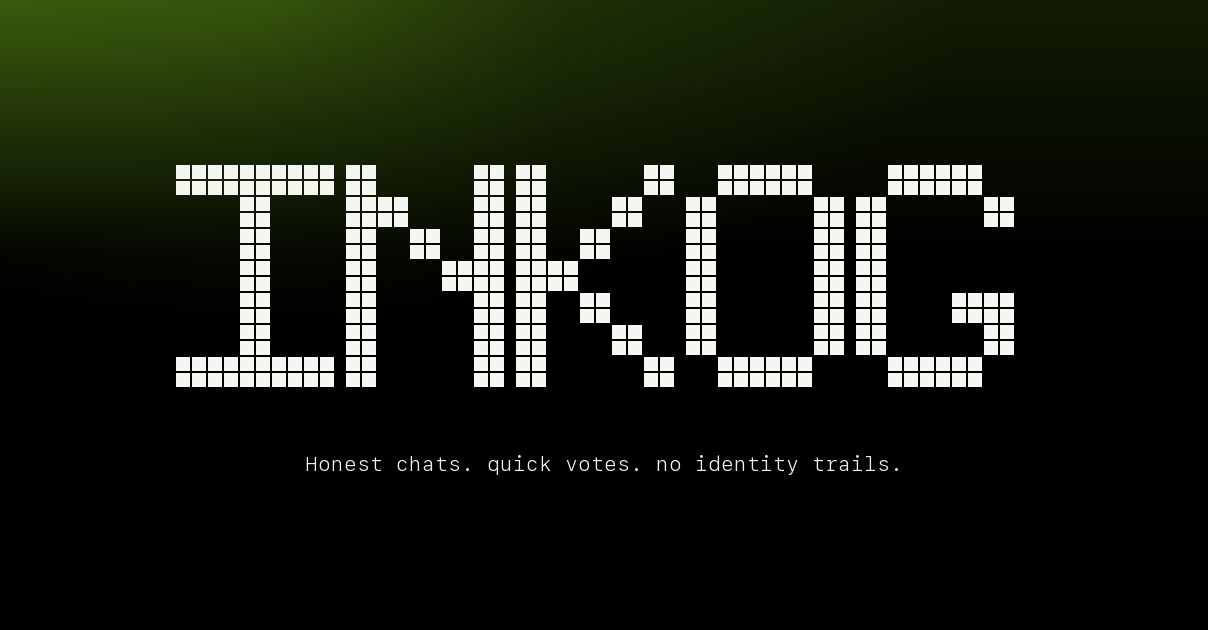
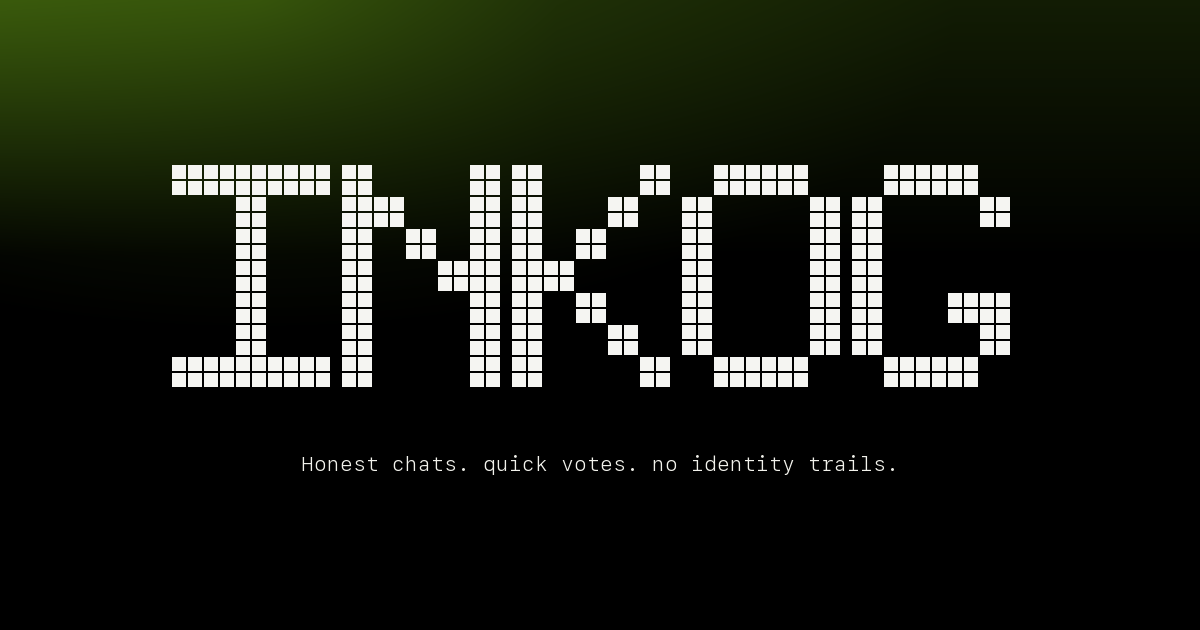
Complete SEO, AEO, GEO, OG image, and analytics updates

diff --git a/app/layout.tsx b/app/layout.tsx
@@ -1,4 +1,5 @@
 import type { Metadata } from "next";
+import Script from "next/script";
 import { DialRoot } from "dialkit";
 import { RouteHandoffProvider } from "@/components/route-handoff-provider";
 import { AgentationProvider } from "./agentation-provider";
@@ -7,15 +8,36 @@ import "dialkit/styles.css";
 import "./globals.css";
 import { SystemSoundProvider } from "@/lib/system-sound-provider";
 import { buildInkogFaviconHref } from "@/lib/inkog-favicon.mjs";
-import { getSiteEntityJsonLd, siteUrl } from "@/lib/site-seo.mjs";
+import {
+  getSiteEntityJsonLd,
+  SITE_DESCRIPTION,
+  SITE_IMAGE_PATH,
+  SITE_TITLE,
+  siteUrl,
+} from "@/lib/site-seo.mjs";
 import { ThemeFavicon } from "./theme-favicon";
 
+const googleAnalyticsId = "G-4BBHERXLJ5";
+
 export const metadata: Metadata = {
-  ...(siteUrl ? { metadataBase: siteUrl } : {}),
-  title: "inkog | Private Anonymous Chat",
-  description: "Create a time-bound room for anonymous group chat, optional passwords, and quick polls. No profiles required.",
+  metadataBase: siteUrl,
+  title: SITE_TITLE,
+  applicationName: "inkog",
+  description: SITE_DESCRIPTION,
+  keywords: ["private anonymous chat", "temporary chat", "anonymous group chat", "quick polls"],
   alternates: {
     canonical: "/",
+  },
+  robots: {
+    index: true,
+    follow: true,
+    googleBot: {
+      index: true,
+      follow: true,
+      "max-image-preview": "large",
+      "max-snippet": -1,
+      "max-video-preview": -1,
+    },
   },
   icons: {
     icon: [
@@ -26,25 +48,27 @@ export const metadata: Metadata = {
     ],
   },
   openGraph: {
-    title: "inkog | Private Anonymous Chat",
-    description: "Create a time-bound room for anonymous group chat, optional passwords, and quick polls. No profiles required.",
+    title: SITE_TITLE,
+    description: SITE_DESCRIPTION,
     url: "/",
+    siteName: "inkog",
     type: "website",
+    locale: "en_US",
     images: [
       {
-        url: "/og-image.gif",
-        width: 1208,
+        url: SITE_IMAGE_PATH,
+        width: 1200,
         height: 630,
-        alt: "Inkog pixel logo with shimmer animation",
-        type: "image/gif",
+        alt: "inkog pixel wordmark with the tagline Honest chats. quick votes. no identity trails.",
+        type: "image/png",
       },
     ],
   },
   twitter: {
     card: "summary_large_image",
-    title: "inkog | Private Anonymous Chat",
-    description: "Create a time-bound room for anonymous group chat, optional passwords, and quick polls. No profiles required.",
-    images: ["/og-image.png"],
+    title: SITE_TITLE,
+    description: SITE_DESCRIPTION,
+    images: [SITE_IMAGE_PATH],
   },
 };
 
@@ -56,6 +80,18 @@ export default function RootLayout({ children }: { children: React.ReactNode }) 
           type="application/ld+json"
           dangerouslySetInnerHTML={{ __html: JSON.stringify(getSiteEntityJsonLd()) }}
         />
+        <Script
+          src={`https://www.googletagmanager.com/gtag/js?id=${googleAnalyticsId}`}
+          strategy="afterInteractive"
+        />
+        <Script id="google-analytics" strategy="afterInteractive">
+          {`
+            window.dataLayer = window.dataLayer || [];
+            function gtag(){dataLayer.push(arguments);}
+            gtag('js', new Date());
+            gtag('config', '${googleAnalyticsId}');
+          `}
+        </Script>
         <script
           dangerouslySetInnerHTML={{
             __html: `try{var theme=window.localStorage.getItem("inkog-theme");if(theme==="crimson"){theme="green";}if(theme){document.documentElement.setAttribute("data-inkog-theme",theme);}}catch(_){}`,

diff --git a/app/about/page.tsx b/app/about/page.tsx
@@ -1,8 +1,14 @@
 import type { Metadata } from "next";
-import { aboutFaqs, getAboutJsonLd } from "@/lib/site-seo.mjs";
+import {
+  ABOUT_DESCRIPTION,
+  ABOUT_TITLE,
+  aboutFaqs,
+  getAboutJsonLd,
+  SITE_IMAGE_PATH,
+} from "@/lib/site-seo.mjs";
 
-const title = "About inkog";
-const description = "How inkog supports private, anonymous, time-bound group conversations.";
+const title = ABOUT_TITLE;
+const description = ABOUT_DESCRIPTION;
 
 export const metadata: Metadata = {
   title,
@@ -14,14 +20,16 @@ export const metadata: Metadata = {
     title,
     description,
     url: "/about",
+    siteName: "inkog",
     type: "website",
+    locale: "en_US",
     images: [
       {
-        url: "/og-image.gif",
-        width: 1208,
+        url: SITE_IMAGE_PATH,
+        width: 1200,
         height: 630,
-        alt: "Inkog pixel logo with shimmer animation",
-        type: "image/gif",
+        alt: "inkog pixel wordmark with the tagline Honest chats. quick votes. no identity trails.",
+        type: "image/png",
       },
     ],
   },
@@ -29,7 +37,7 @@ export const metadata: Metadata = {
     card: "summary_large_image",
     title,
     description,
-    images: ["/og-image.png"],
+    images: [SITE_IMAGE_PATH],
   },
 };
 

diff --git a/app/robots.ts b/app/robots.ts
@@ -15,6 +15,11 @@ export default function robots(): MetadataRoute.Robots {
         disallow: ["/api/"],
       },
       {
+        userAgent: "ChatGPT-User",
+        allow: "/",
+        disallow: ["/api/"],
+      },
+      {
         userAgent: "GPTBot",
         allow: "/",
         disallow: ["/api/"],
@@ -30,7 +35,17 @@ export default function robots(): MetadataRoute.Robots {
         disallow: ["/api/"],
       },
       {
+        userAgent: "anthropic-ai",
+        allow: "/",
+        disallow: ["/api/"],
+      },
+      {
         userAgent: "Google-Extended",
+        allow: "/",
+        disallow: ["/api/"],
+      },
+      {
+        userAgent: "Bingbot",
         allow: "/",
         disallow: ["/api/"],
       },

diff --git a/app/page.tsx b/app/page.tsx
@@ -1,5 +1,17 @@
 import { DirectionTwoShell } from "@/components/direction-two-shell";
+import { getHomeJsonLd } from "@/lib/site-seo.mjs";
 
 export default function Home() {
-  return <DirectionTwoShell />;
+  return (
+    <>
+      <script
+        type="application/ld+json"
+        dangerouslySetInnerHTML={{ __html: JSON.stringify(getHomeJsonLd()) }}
+      />
+      <DirectionTwoShell />
+      <nav aria-label="Site navigation" className="sr-only">
+        <a href="/about">About inkog</a>
+      </nav>
+    </>
+  );
 }

diff --git a/components/direction-two-shell.tsx b/components/direction-two-shell.tsx
@@ -1374,6 +1374,7 @@ export function DirectionTwoShell() {
       data-route-handoff-phase={routeHandoffState.phase}
       onClick={focusInput}
     >
+      <h1 className="sr-only">Private anonymous chat rooms for temporary conversations</h1>
       <p id="direction-two-keyboard-shortcuts" className="sr-only">
         Enter submits a command or answer. Arrow up and arrow down move through command history. Tab autocompletes commands. Escape cancels the current prompt.
       </p>

diff --git a/lib/room-og.mjs.d.ts b/lib/room-og.mjs.d.ts
@@ -1,4 +1,4 @@
-export const ROOM_OG_WIDTH: 1208;
+export const ROOM_OG_WIDTH: 1200;
 export const ROOM_OG_HEIGHT: 630;
 export const ROOM_OG_DEFAULT_TOPIC: "Private room";
 
